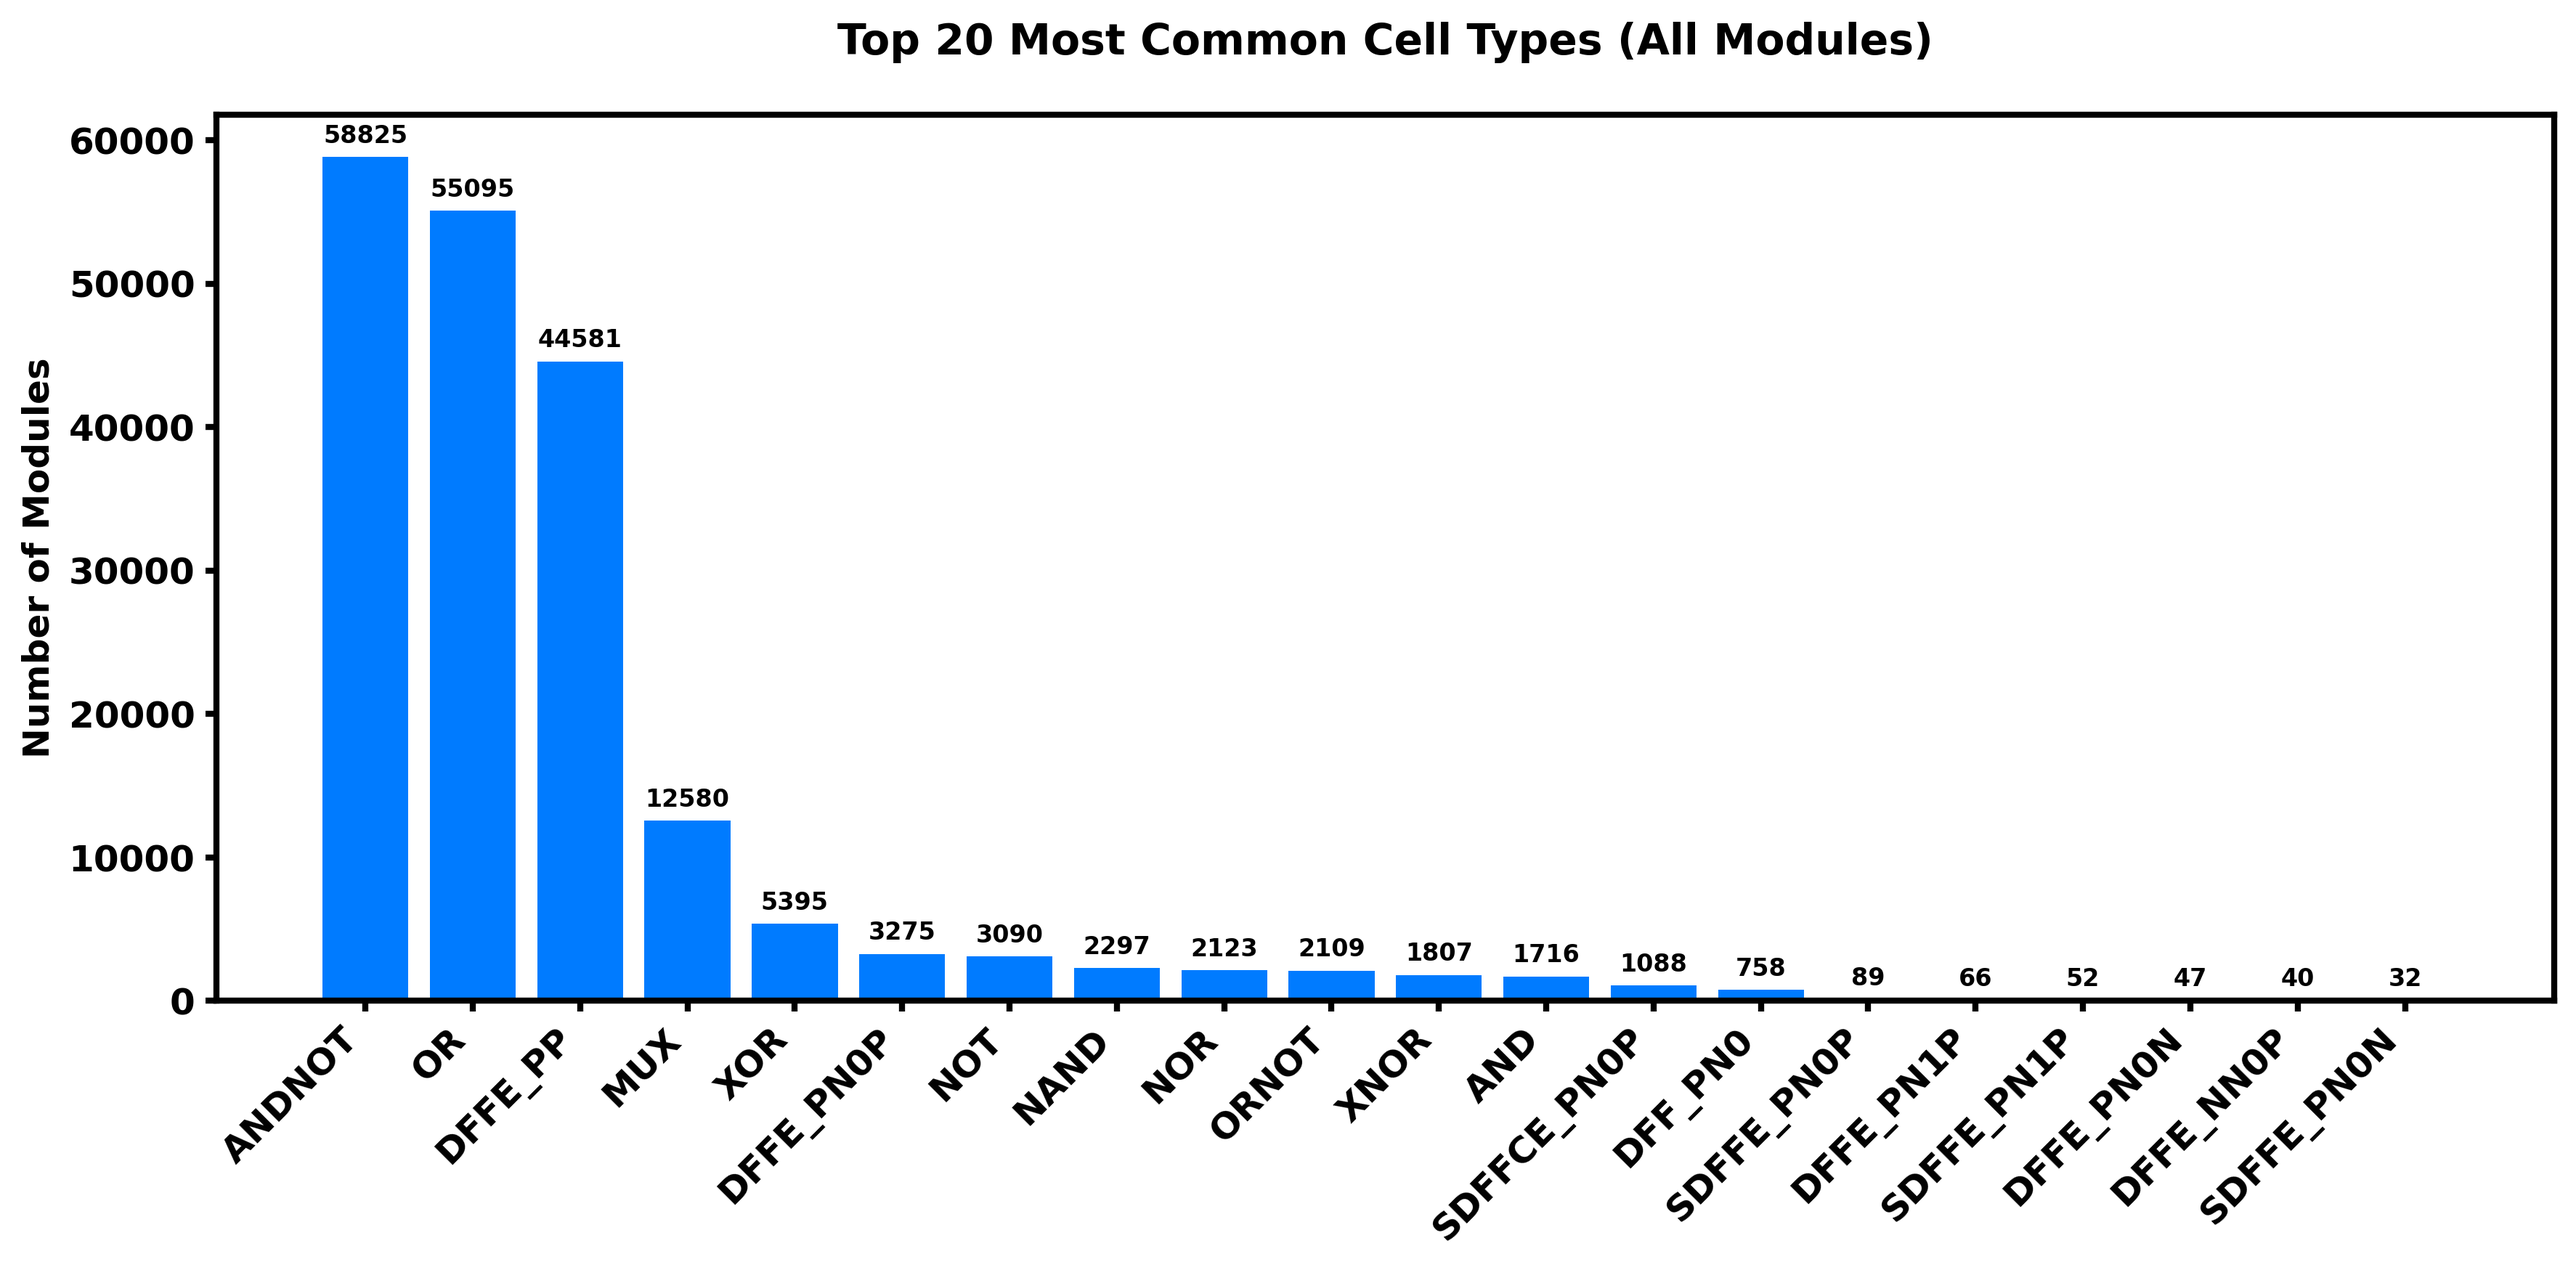
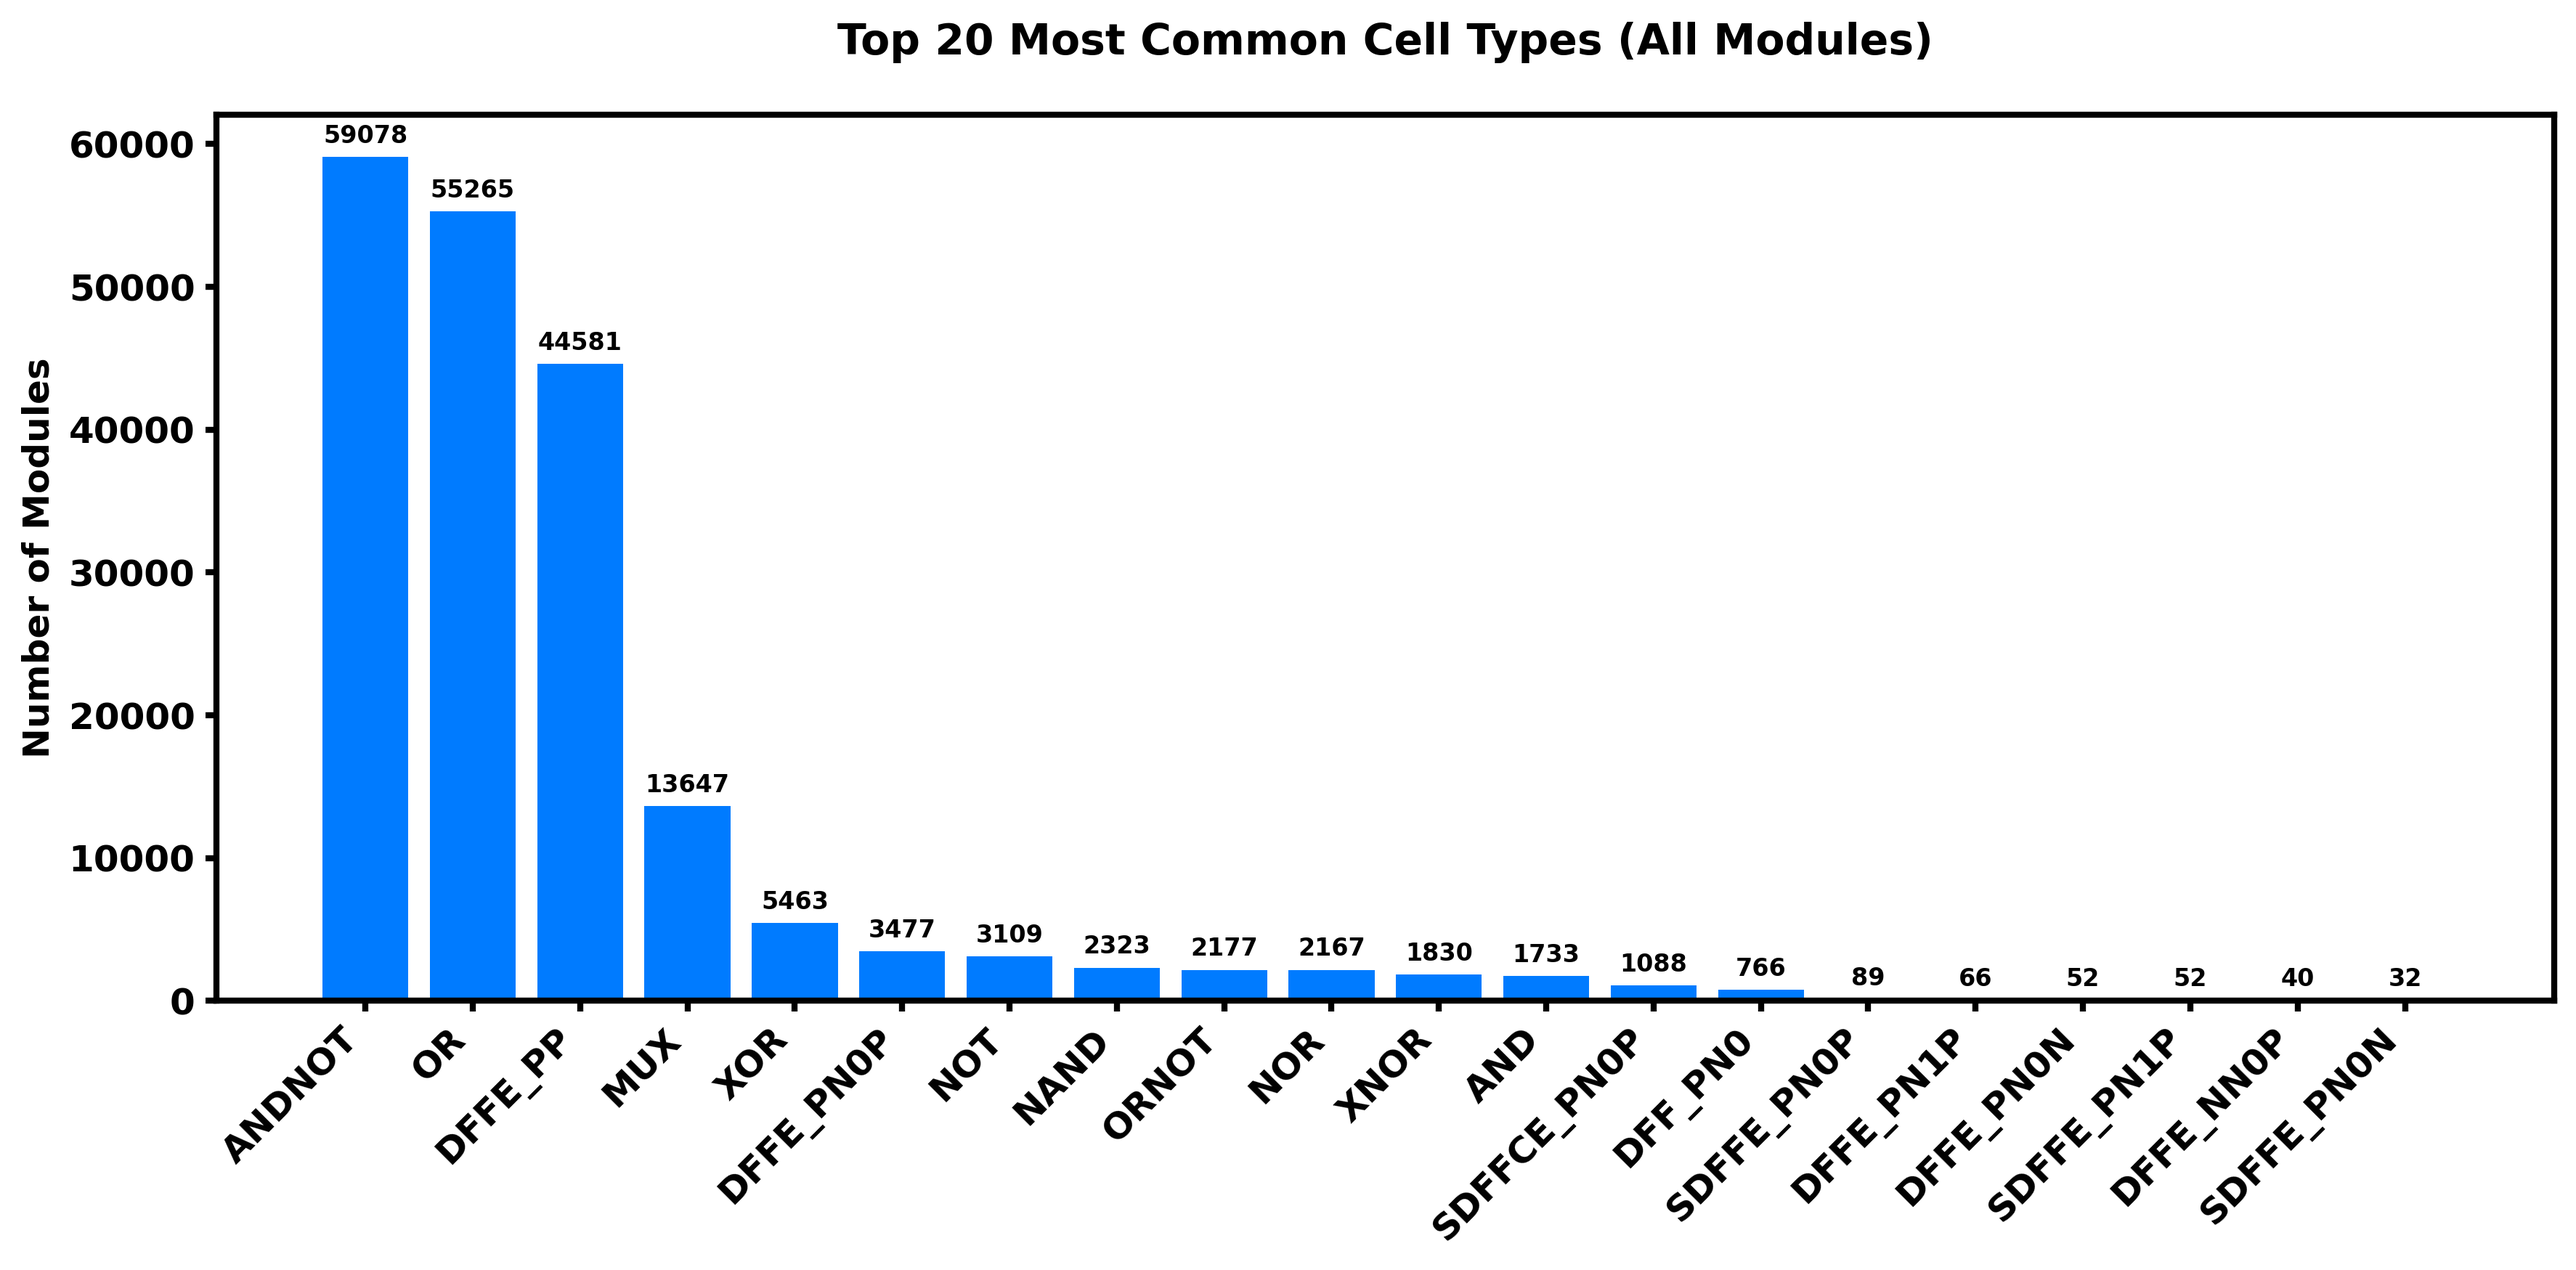
updating

diff --git a/DATASET.md b/DATASET.md
@@ -16,7 +16,7 @@ The dataset contains 138 Verilog modules across 24 different categories, providi
 ## Code Metrics
 
 ### Average Metrics per Module
-- Lines of Code: 112.57
+- Lines of Code: 112.65
 - Parameters: 2.75
 - Ports: 11.22
 
@@ -146,8 +146,8 @@ The following table summarizes the gate (cell) count, wire count, memory countfo
 | fwft_fifo | 388 | 245 | 0 |
 | memory_mapped_fifo | 1945 | 1322 | 0 |
 | multi_ported_fifo | N/A | N/A | N/A |
-| parameterized_priority_queue | N/A | N/A | N/A |
-| pipelined_fifo | N/A | N/A | N/A |
+| parameterized_priority_queue | 1826 | 1523 | 0 |
+| pipelined_fifo | 144 | 126 | 0 |
 | showahead_fifo | 499 | 368 | 0 |
 | skid_buffer | 46 | 32 | 0 |
 | smart_fifo | 1268 | 670 | 0 |
@@ -213,32 +213,32 @@ The following table summarizes the gate (cell) count, wire count, memory countfo
 | jtag_controller | 206 | 105 | 0 |
 | majority_voter | 90 | 88 | 0 |
 
-- **Average Gate/Cell Count:** 1513.39
-- **Average Wire Count:** 1143.44
+- **Average Gate/Cell Count:** 1505.32
+- **Average Wire Count:** 1138.57
 - **Average Memory Count:** 0.00
 
 ### Most Common Cell Types (All Modules)
 
 | Cell Type | Total Count |
 |-----------|------------|
-| ANDNOT | 58825 |
-| OR | 55095 |
+| ANDNOT | 59078 |
+| OR | 55265 |
 | DFFE_PP | 44581 |
-| MUX | 12580 |
-| XOR | 5395 |
-| DFFE_PN0P | 3275 |
-| NOT | 3090 |
-| NAND | 2297 |
-| NOR | 2123 |
-| ORNOT | 2109 |
-| XNOR | 1807 |
-| AND | 1716 |
+| MUX | 13647 |
+| XOR | 5463 |
+| DFFE_PN0P | 3477 |
+| NOT | 3109 |
+| NAND | 2323 |
+| ORNOT | 2177 |
+| NOR | 2167 |
+| XNOR | 1830 |
+| AND | 1733 |
 | SDFFCE_PN0P | 1088 |
-| DFF_PN0 | 758 |
+| DFF_PN0 | 766 |
 | SDFFE_PN0P | 89 |
 | DFFE_PN1P | 66 |
+| DFFE_PN0N | 52 |
 | SDFFE_PN1P | 52 |
-| DFFE_PN0N | 47 |
 | DFFE_NN0P | 40 |
 | SDFFE_PN0N | 32 |
 | DFFE_PP0P | 30 |
@@ -277,7 +277,7 @@ This dataset provides a diverse collection of Verilog modules that represent var
 
 4. **Interface Complexity**: With an average of 11.22 ports per module, the designs demonstrate a range of interface complexities suitable for diverse applications.
 
-5. **Synthesis Metrics**: Available synthesis statistics (e.g., an average of 1513.39 cells for 129 successfully synthesized modules with cell data) provide insights into the hardware implications and implementation styles. Detailed metrics are available in the synthesis section.
+5. **Synthesis Metrics**: Available synthesis statistics (e.g., an average of 1505.32 cells for 131 successfully synthesized modules with cell data) provide insights into the hardware implications and implementation styles. Detailed metrics are available in the synthesis section.
 
 This dataset is well-suited for research in areas such as:
 - RTL design patterns and best practices
